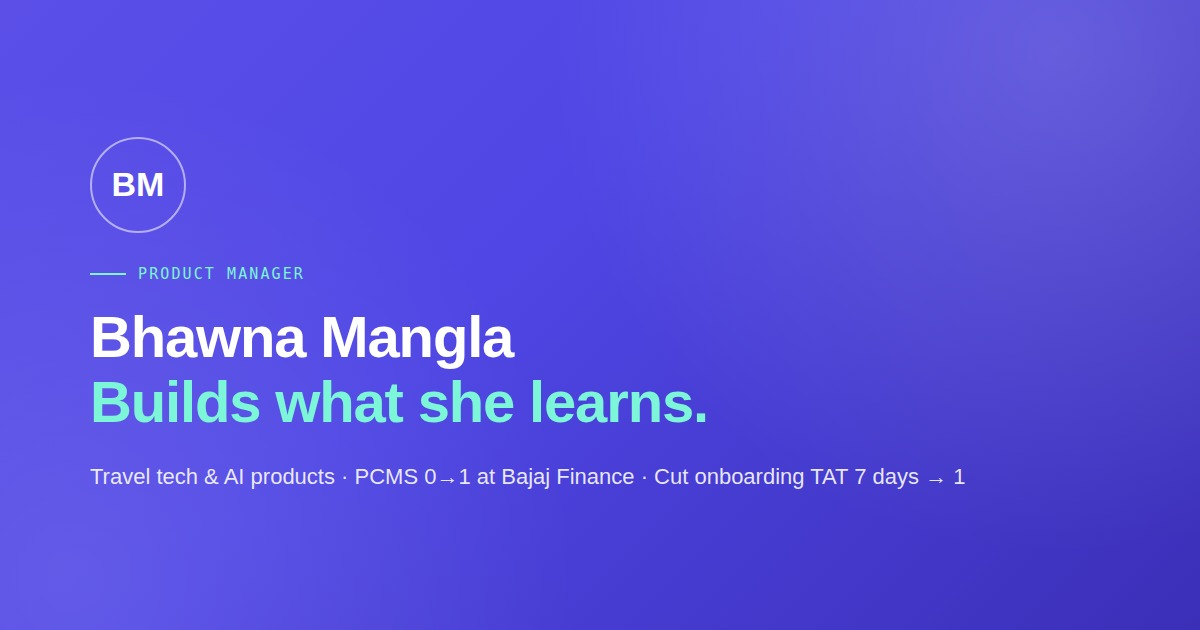
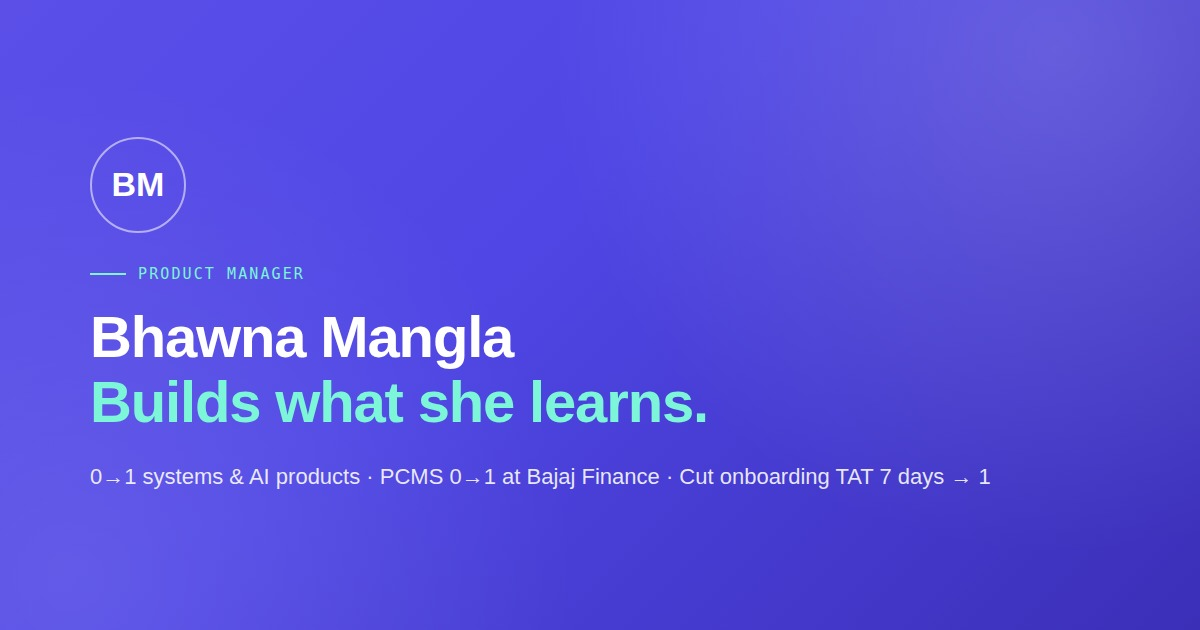
Broaden positioning from travel-tech-exclusive to skill-forward
Hero, title tag, meta description, OG/Twitter tags, and og-image all
said "targeting travel tech" specifically, which reads as a closed
door to FAANG/Big 4 roles outside that vertical. Reframed the ask:
Product Manager on consumer/AI-driven products broadly, with travel
tech named as the domain gone deepest in rather than the sole target.

Renamed the "Travel-Tech Practice" section to "Case Studies" (nav
label updated to match) and reworded its intro to lead with the
transferable skills (prioritization, funnel analysis, AI product
design) rather than "aimed squarely at travel-tech PM roles." The
underlying content, T-numbering, IDs, and travel-tech-more.html are
unchanged — this is a framing change, not a content rewrite.

Changed region(s): [[0.0617, 0.7238, 0.8325, 0.7841]]

diff --git a/index.html b/index.html
@@ -3,8 +3,8 @@
 <head>
 <meta charset="UTF-8">
 <meta name="viewport" content="width=device-width, initial-scale=1.0">
-<title>Bhawna Mangla — Product Manager | Travel Tech &amp; AI Products</title>
-<meta name="description" content="Bhawna Mangla is a Product Manager targeting travel tech — OTAs, airlines, trip planning. Built PCMS 0→1 at Bajaj Finance, cutting partner TAT from 7 days to 1.">
+<title>Bhawna Mangla — Product Manager | 0→1 Systems &amp; AI Products</title>
+<meta name="description" content="Bhawna Mangla is a Product Manager turning operational complexity into 0→1 systems and AI products. Built PCMS at Bajaj Finance, cutting TAT from 7 days to 1.">
 
 <link rel="icon" href="favicon.ico" sizes="any">
 <link rel="icon" type="image/svg+xml" href="favicon.svg">
@@ -14,15 +14,15 @@
 
 <meta property="og:type" content="website">
 <meta property="og:url" content="https://bhawnamanglapm.github.io/">
-<meta property="og:title" content="Bhawna Mangla — Product Manager | Travel Tech & AI Products">
-<meta property="og:description" content="Product Manager targeting travel tech — OTAs, airlines, and AI trip planning. Built PCMS 0→1 at Bajaj Finance, cutting partner onboarding TAT from 7 days to 1.">
+<meta property="og:title" content="Bhawna Mangla — Product Manager | 0→1 Systems & AI Products">
+<meta property="og:description" content="Product Manager turning operational complexity into 0→1 systems and AI products. Built PCMS 0→1 at Bajaj Finance, cutting partner onboarding TAT from 7 days to 1.">
 <meta property="og:image" content="https://bhawnamanglapm.github.io/og-image.jpg">
 <meta property="og:image:width" content="1200">
 <meta property="og:image:height" content="630">
 
 <meta name="twitter:card" content="summary_large_image">
-<meta name="twitter:title" content="Bhawna Mangla — Product Manager | Travel Tech & AI Products">
-<meta name="twitter:description" content="Product Manager targeting travel tech — OTAs, airlines, and AI trip planning. Built PCMS 0→1 at Bajaj Finance, cutting partner onboarding TAT from 7 days to 1.">
+<meta name="twitter:title" content="Bhawna Mangla — Product Manager | 0→1 Systems & AI Products">
+<meta name="twitter:description" content="Product Manager turning operational complexity into 0→1 systems and AI products. Built PCMS 0→1 at Bajaj Finance, cutting partner onboarding TAT from 7 days to 1.">
 <meta name="twitter:image" content="https://bhawnamanglapm.github.io/og-image.jpg">
 
 <meta name="robots" content="index, follow">
@@ -73,7 +73,7 @@
       <ul class="nav-links">
         <li><a href="#about">About</a></li>
         <li><a href="#impact">Impact</a></li>
-        <li><a href="#travel-tech">Travel</a></li>
+        <li><a href="#travel-tech">Case Studies</a></li>
         <li><a href="#ai-skills">AI Skills</a></li>
         <li><a href="#experience">Experience</a></li>
         <li><a href="#toolkit">Toolkit</a></li>
@@ -103,7 +103,7 @@
     <div class="wrap">
       <div class="hero-top">
         <img class="hero-avatar" src="hero-avatar.jpg" alt="Bhawna Mangla smiling outdoors" loading="eager">
-        <p class="eyebrow" style="margin-bottom:0">Product Manager · Travel Tech · Gurugram, India</p>
+        <p class="eyebrow" style="margin-bottom:0">Product Manager · 0→1 Systems &amp; AI Products · Gurugram, India</p>
       </div>
       <h1>
         <span class="row1">Builds what</span><br>
@@ -111,25 +111,27 @@
       </h1>
       <p class="hero-sub">
         With 4+ years turning operational complexity into products that move real numbers —
-        from 0→1 platforms to large-scale deposit books — I'm now pointing that same pattern
-        at travel: <strong>booking funnels, AI trip planning, and the operational dashboards
-        that keep an OTA or airline running.</strong>
+        from 0→1 platforms to large-scale deposit books — I now apply that same pattern to
+        consumer and AI-driven products. <strong>Travel is where I've gone deepest: booking
+        funnels, AI trip planning, and the operational dashboards that keep an OTA or airline
+        running.</strong>
       </p>
       <p class="hero-sub">
-        I'm looking for my next role as a Product Manager in travel tech — OTAs, airlines,
-        or travel-AI platforms like MakeMyTrip, Booking.com, Expedia, Amadeus, or Sabre —
-        bringing fintech-grade rigor on 0→1 execution, data-first decision-making, and a
-        bias for simplifying complex processes into sustainable growth.
+        I'm looking for my next role as a Product Manager on consumer, marketplace, or
+        AI-driven products — travel tech (OTAs, airlines, or platforms like MakeMyTrip,
+        Booking.com, Expedia, Amadeus, or Sabre) is where I've gone deepest, bringing
+        fintech-grade rigor on 0→1 execution, data-first decision-making, and a bias for
+        simplifying complex processes into sustainable growth.
       </p>
       <p class="hero-metric mono">
         Cut partner onboarding TAT from 7 days → 1 day (86% faster) and drove an
         80% TAT reduction through a data-first process at Bajaj Finance — while
         owning PCMS 0→1 for a ₹50,000 Cr+ deposit book. Now applying that same rigor
-        to travel-tech practice work below.
+        to the case studies below.
       </p>
       <div class="hero-cta">
         <a class="btn primary" href="#travel-tech" style="display:inline-flex;align-items:center;gap:9px">
-          See travel-tech practice
+          See case studies
           <svg viewBox="0 0 24 24" width="14" height="14" fill="none" stroke="currentColor" stroke-width="2.4" stroke-linecap="round" stroke-linejoin="round"><path d="M5 12h14M13 6l6 6-6 6"/></svg>
         </a>
         <a class="btn ghost" href="#contact" style="display:inline-flex;align-items:center;gap:9px">
@@ -378,15 +380,17 @@
   <div class="wrap">
     <div class="sec-head">
       <span class="sec-num">04</span>
-      <h2>Travel-Tech Practice</h2>
-      <span class="sec-tag">// where I'm headed next</span>
+      <h2>Case Studies</h2>
+      <span class="sec-tag">// travel is where I've gone deepest</span>
     </div>
     <p class="sec-intro">
-      Seventeen self-directed projects aimed squarely at travel-tech PM roles — OTAs, airlines,
-      marketplaces, mobility, and travel-AI platforms like MakeMyTrip, ixigo, Booking.com,
-      Expedia, Airbnb, Uber, Amadeus, and Sabre. Same pattern as the Case Studies below (turning
-      operational complexity into shipped product judgment), pointed at a new domain. Three are
-      fully scoped out end-to-end; the rest are next up.
+      Seventeen self-directed projects — product teardowns, PRDs, dashboards, and an AI copilot —
+      demonstrating the same pattern across roles: turning operational complexity into shipped
+      product judgment. Travel (OTAs, airlines, marketplaces, mobility, and travel-AI platforms
+      like MakeMyTrip, ixigo, Booking.com, Expedia, Airbnb, Uber, Amadeus, and Sabre) is the
+      domain I chose to go deep in, but the underlying skills — prioritization, funnel analysis,
+      AI product design, stakeholder-ready dashboards — carry to any consumer or AI-driven
+      product. Three are fully scoped out end-to-end; the rest are next up.
     </p>
 
     <p style="font-family:'Space Grotesk',sans-serif;font-weight:700;font-size:17px;color:var(--paper);margin:32px 0 6px">Systems Coverage Map</p>
